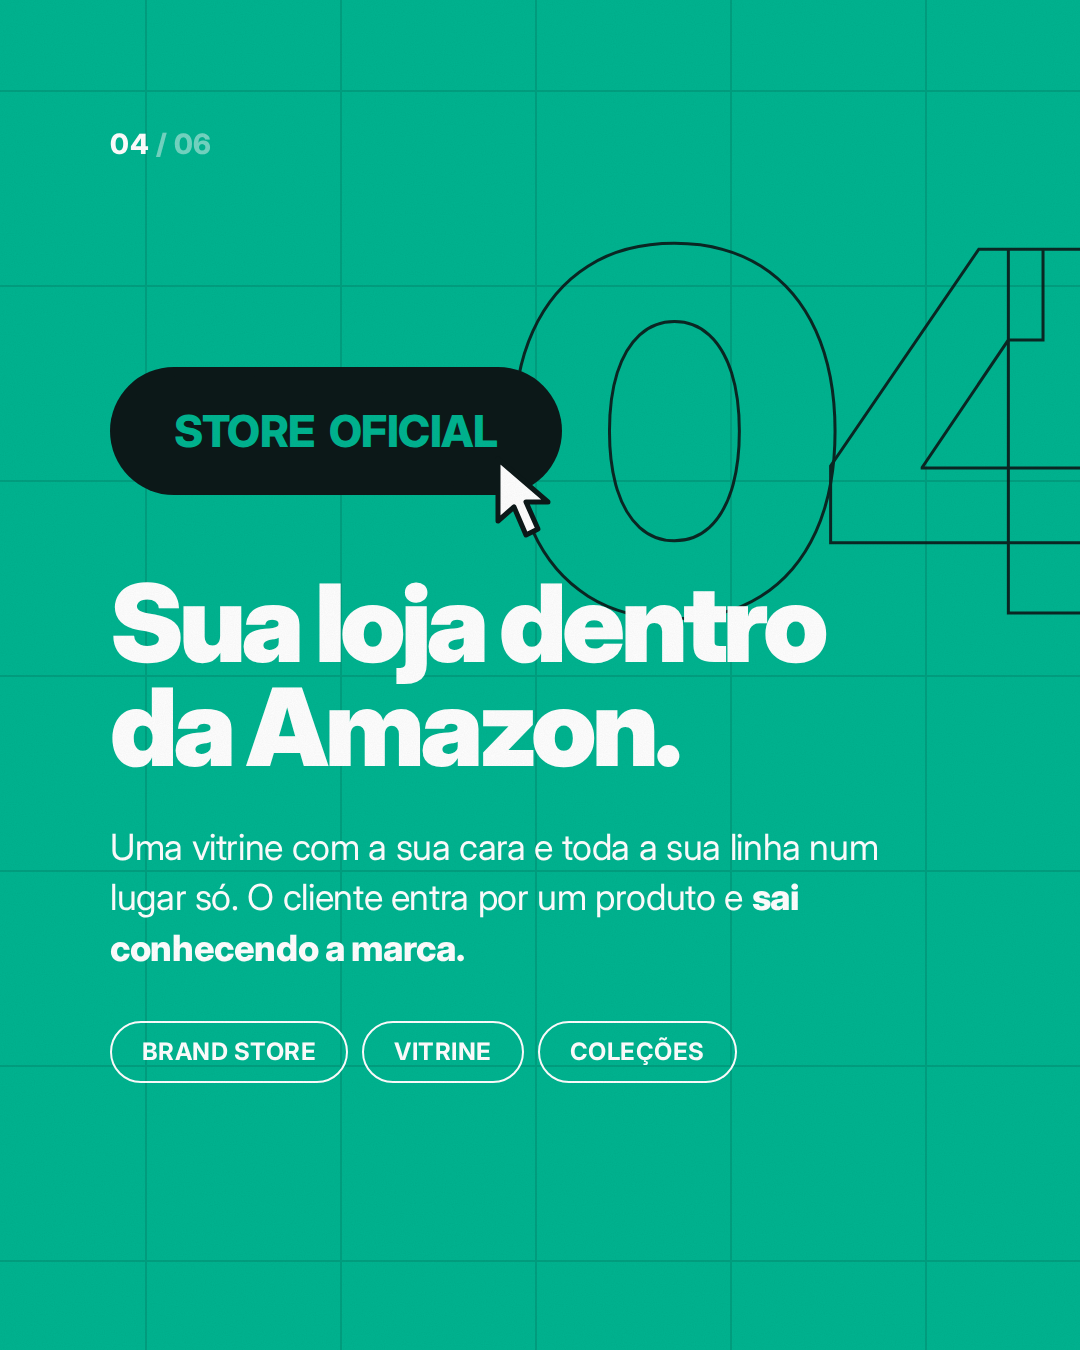
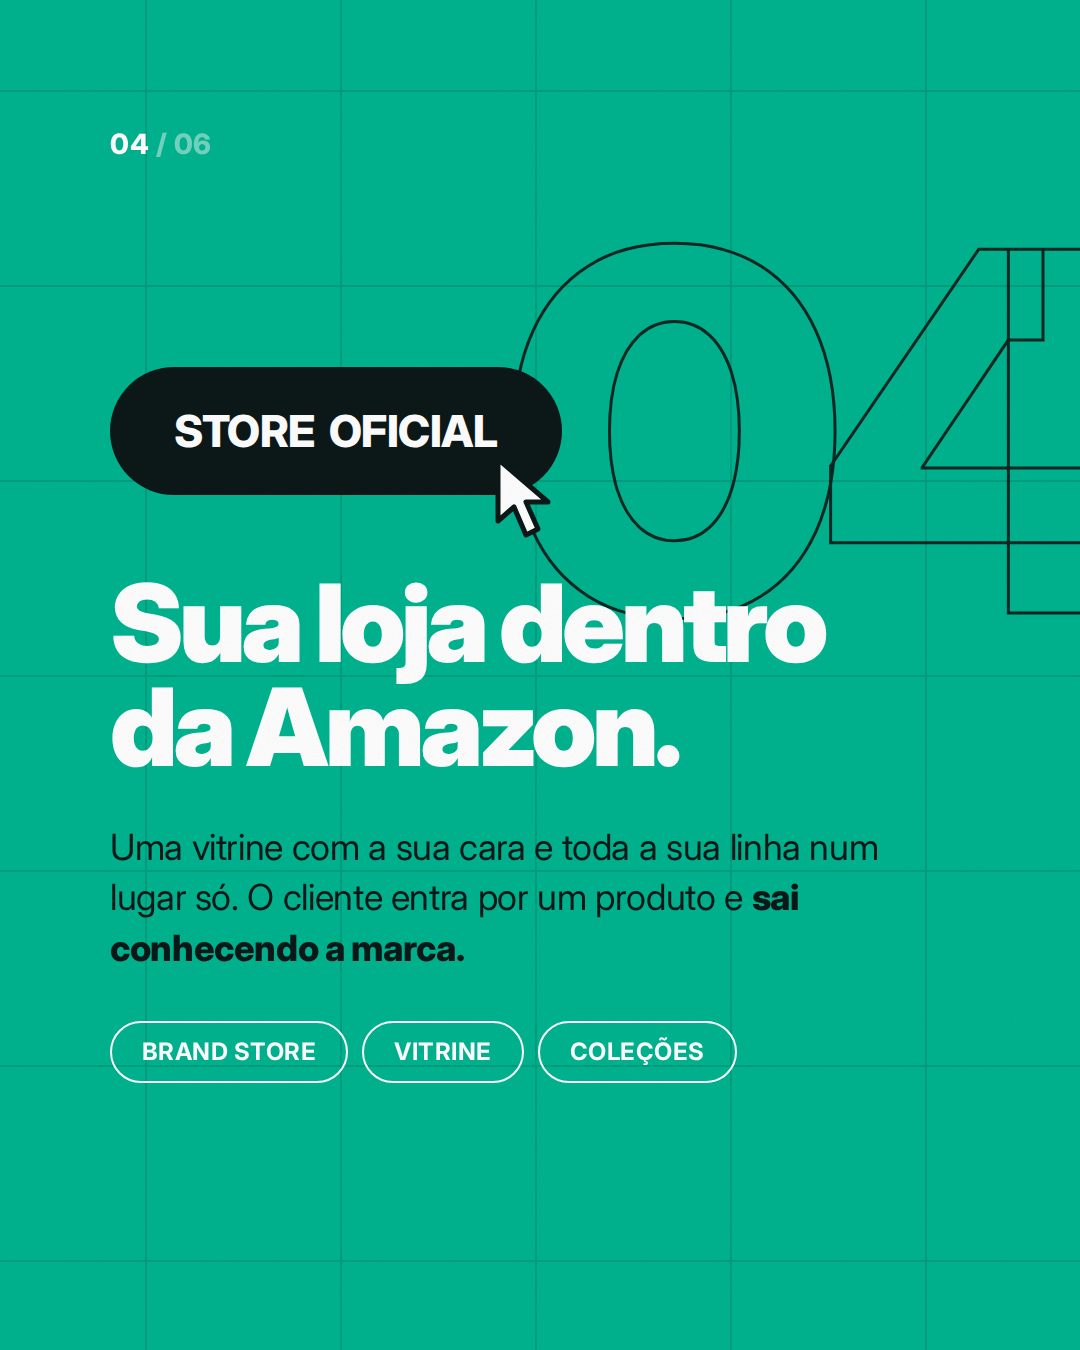
Slides verdes: botão com letra branca e texto de apoio em preto
Claude-Session: https://claude.ai/code/session_016sUdgHHfxU1Scirg6wMBYZ

Changed region(s): [[0.0917, 0.6222, 0.825, 0.7156], [0.1528, 0.28, 0.4583, 0.3422]]

diff --git a/instagram/waybrand-services/slides.html b/instagram/waybrand-services/slides.html
@@ -36,7 +36,8 @@
   /* o botão da capa, ampliado e "clicado" */
   .btn{position:absolute;left:110px;top:400px;height:128px;padding:0 64px;border-radius:64px;display:flex;align-items:center;
     font:800 44px/1 'Inter';letter-spacing:-.01em;word-spacing:.12em;text-transform:uppercase;white-space:nowrap}
-  .verde .btn{background:var(--ink);color:var(--green)}
+  .verde .btn{background:var(--ink);color:var(--white)}
+  .verde .p{color:var(--ink)}
   .branco .btn{background:var(--white);border:4px solid var(--green);color:var(--ink)}
   .cursor{position:absolute;width:74px;height:84px}
 

diff --git a/instagram/waybrand-services/NOTAS.md b/instagram/waybrand-services/NOTAS.md
@@ -19,7 +19,7 @@ Para renderizar: `node render.mjs`. O título se ajusta sozinho à largura, e as
 Os slides ficam em `slides.html` e são gerados com `node render-slides.mjs`, que salva em `png/slide-0N-*.png`. A capa é `png/slide-01-capa.png`, cópia da versão clara.
 
 Cada slide de serviço usa a cor do botão correspondente na capa clara:
-- Botão cheio vira slide verde com texto branco: Identidade visual, Store oficial e Brand registry.
+- Botão cheio vira slide verde: Identidade visual, Store oficial e Brand registry. Nesses slides, a frase, o botão e os chips ficam em branco, e o texto de apoio fica em preto.
 - Botão de contorno vira slide branco com detalhes verdes e texto escuro: Conteúdo A+, Ads e escala e Suporte.
 
 Estrutura dos slides de serviço:
